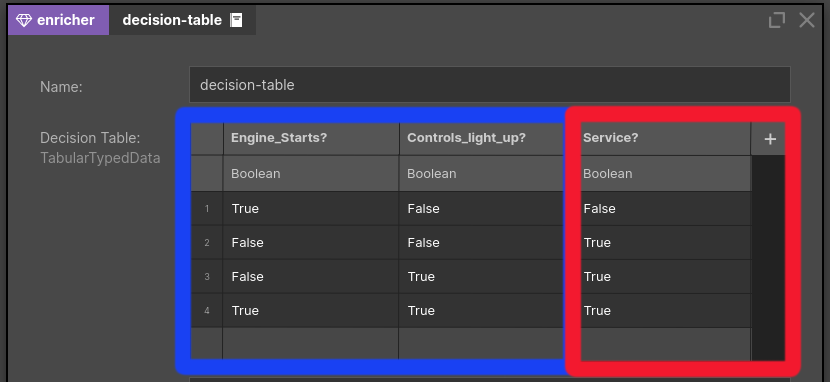
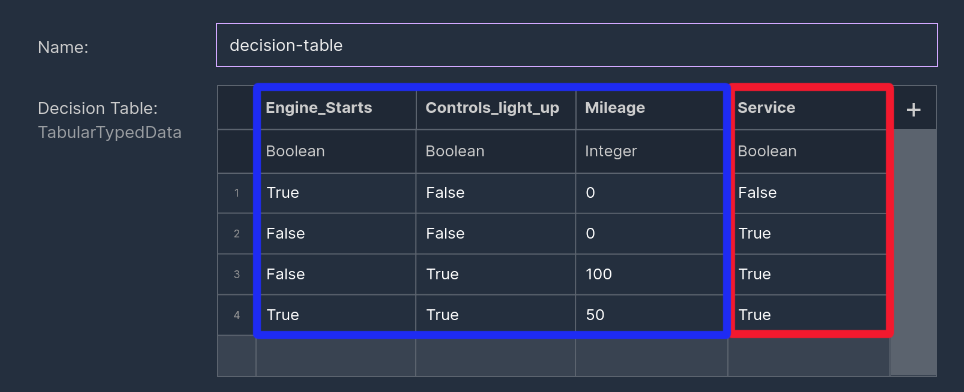
Added input to Enrichers.md decision table

diff --git a/docs/scenarios_authoring/Enrichers.md b/docs/scenarios_authoring/Enrichers.md
@@ -51,14 +51,16 @@ This component allows the user to match input to a pre-defined result. Please be
 - Description: user-defined description of the particular component. 
 
 The component has two main elements: _Decision Table_ which is a user-defined table of values and _Match condition_ - a SpEL expression which Nu will use to match the input to the table values.
+
+First let's look at our input: it's a simple model of car data that consists of engine status, controls status and car mileage and name.![alt_text](img/decisionTableValues.png "basic decision table")
  
-First we have to define a fixed-value decision table. We will use a simple car mechanic concept - a decision table that helps to define whether a car should be serviced. The blue columns represent our input values and the red one is our decision column.
+Now we have to define a fixed-value decision table. We will use a simple car mechanic concept - a decision table that helps to define whether a car should be serviced. The blue columns represent our input values and the red one is our decision column.
 ![alt_text](img/decisionTableValues.png "basic decision table")
 
-We now need to define a condition that will match our input data with the table rows. In our case the input is a tuple (engine\_status, controls\_status, car\_id). We want to match when the values are equal to the row values. The relevant expression is:
+We now need to define a condition that will match our input data with the table rows. In our case the input is a tuple (engine\_status, controls\_status, mileage, car\_id). We want to match when the boolean values are equal to the row values. We also decide we want the car mileage to be higher than the specific threshold. Remember that #Row variable in the expression allows us to interact with the defined table. The relevant expression is:
 ![alt_text](img/decisionTableExpression.png "Expression matching input with rows.")
 
-The output from the component will be a list of matched *whole* rows (of type record). So, in our case, if one of inputs is (True, True, "myCar"), then the output would be a list consisting of a single recordList[(True, True, True)]. If you want to only get the _result columns_, then you need to transform the data afterwards with a different component.
+The output from the component will be a list of matched *whole* rows (of type record). So, in our case, if one of inputs is (True, True, 60, "myCar"), then the output would be a list consisting of a single recordList[(True, True, 50, True)]. If you want to only get the _result columns_, then you need to transform the data afterwards with a different component.
 
 You can add as many input and result columns as you would like. The _Match condition_ is a fully functioning expression, so you can be quite flexible with it. You could omit some of the checks on the input rows. In our example, we could check for engine control only with *#engine = #ROW.Engine_starts*. It is also up to you which columns you define as input and which as output, you can treat them completely differently in two components that have the same table definition.
 
